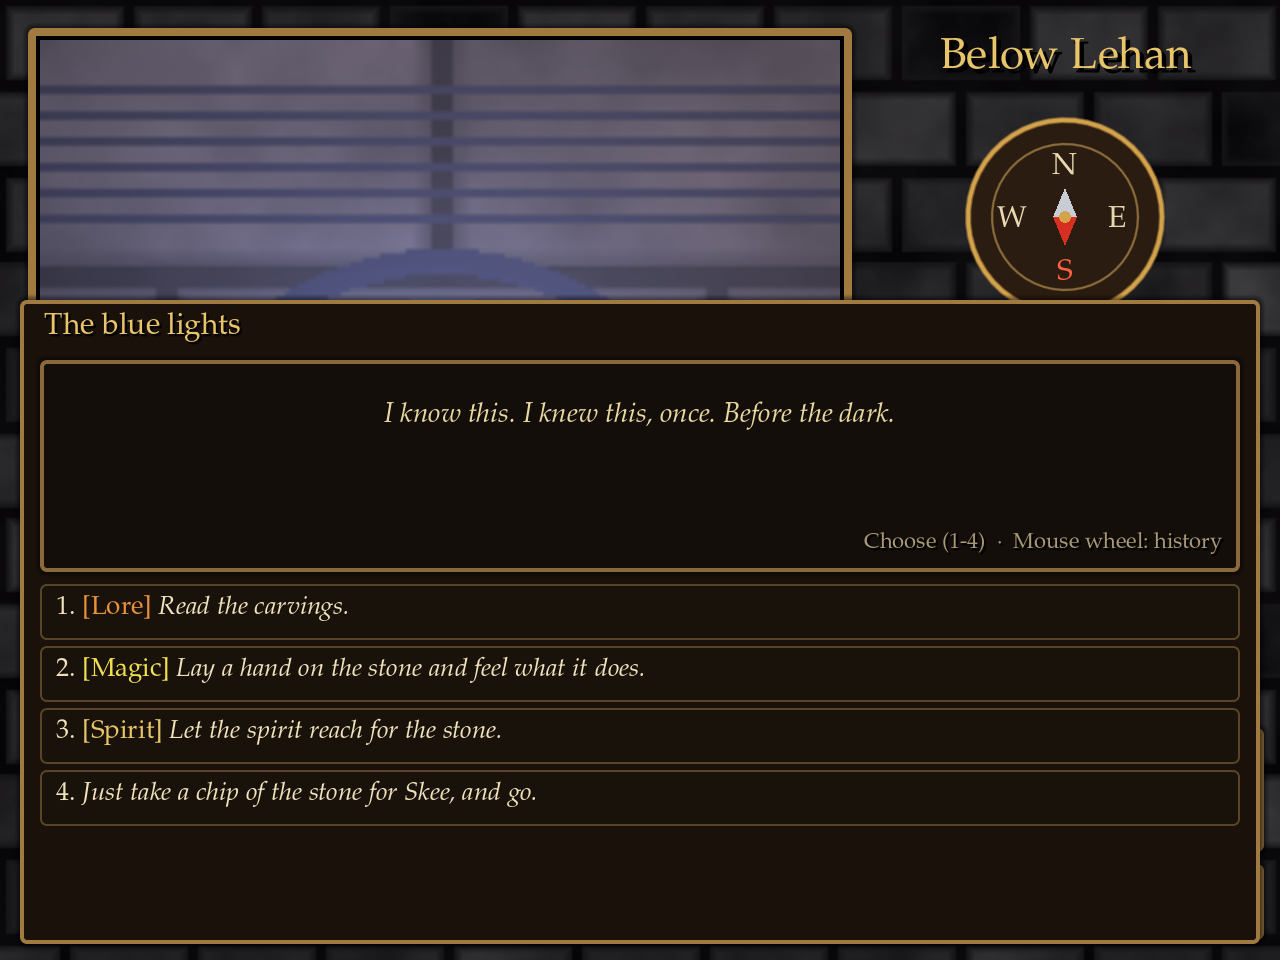
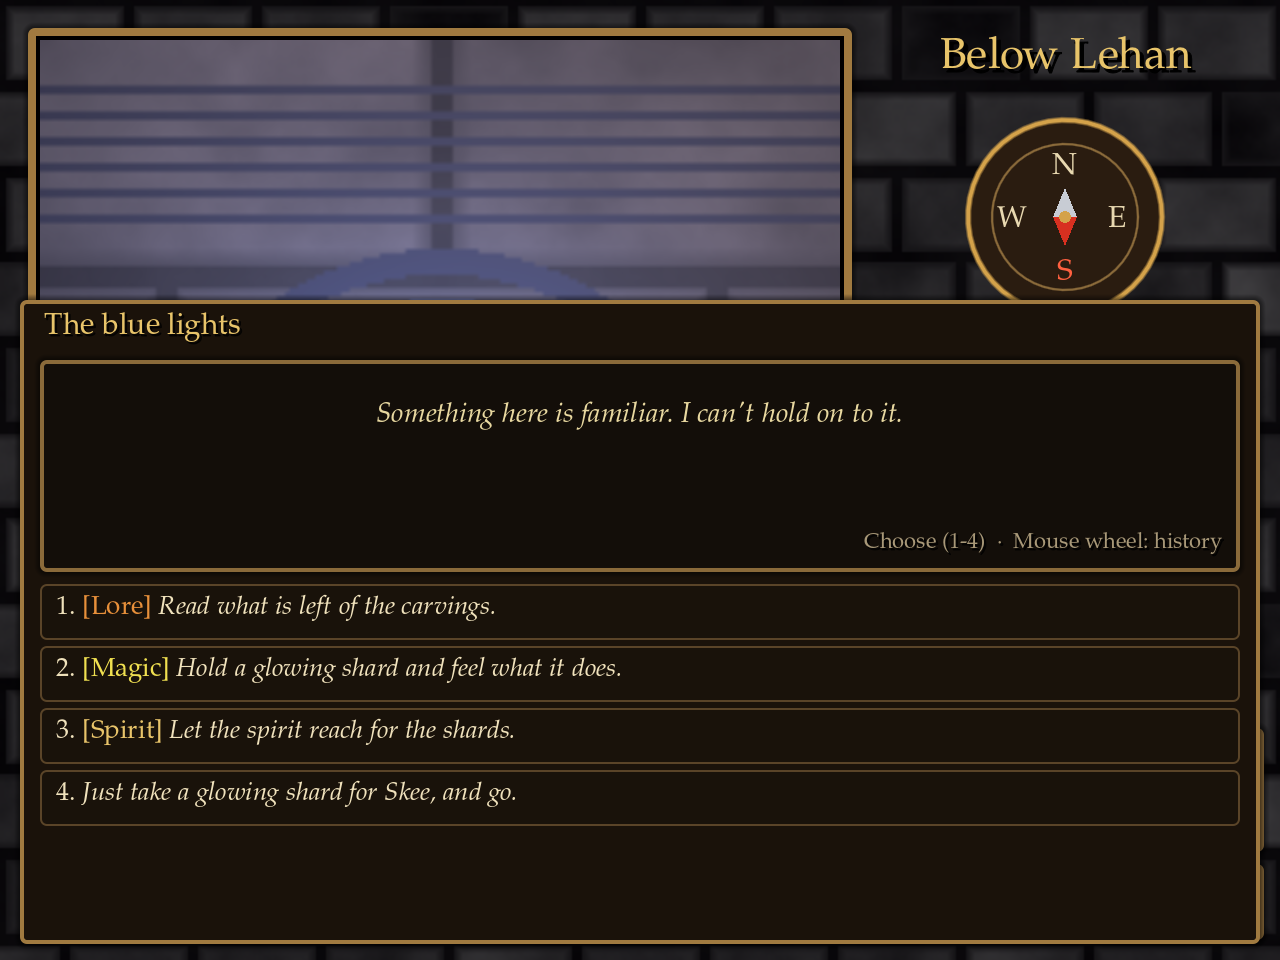
Tunnels: the crowned stone becomes the shattered remains of a figure, broken on purpose and walled in

diff --git a/Shangrila-godot/README.md b/Shangrila-godot/README.md
@@ -158,11 +158,12 @@ talk the tanner round (Talk), find the loose drain (Perception), let the spirit 
 or pay her 5 silver. Below is a small 3D maze lit by your torch (`scripts/areas/lehan_tunnels.gd`,
 screen `scripts/screens/tunnels.gd`): a rat nest blocking the way east (Stealth, Survival or
 Combat; failing drives you back, bitten), a collapse (Perception or Survival, or Toughness; failing
-costs hits), Skee's bag in a side passage, and the chamber of the lights: an old ward-stone carved
-with the crown from the shrine's stone head. Reading it (Lore) or feeling it (Magic) tells more,
-and the spirit can reach for it and remember something. Each failed try at the rats or the
+costs hits), Skee's bag in a side passage, and the chamber of the lights: behind an old bricked-up doorway,
+the shattered remains of a figure, broken on purpose, with part of what might be a crown and a few
+shards still glowing. Reading what's left of the carvings (Lore) or holding a shard (Magic) tells
+more, and the spirit can reach for the shards and almost remember something. Each failed try at the rats or the
 collapse gives +1 on the next. Walk into the ladder to climb out. Then Skee must be persuaded it
-wasn't ghosts, one argument per talk (the glowing chip, what the carvings said, his bag, the host's
+wasn't ghosts, one argument per talk (the glowing shard, what the carvings said, his bag, the host's
 calm, or simply company); if every argument fails, he comes anyway. He joins for no fee. The text
 is in `scripts/data/quest_skee.gd`.
 
@@ -186,7 +187,7 @@ taken and finished quests. Each keeps every scene of the quest as it was played:
 speech, the inner voice, the replies chosen (▸, with the check and its chance) and whether each
 check passed. Kept in the save (`scripts/data/journal.gd`, `scripts/widgets/quest_log.gd`).
 
-**Quest items.** Lisbet's letter, Tam's page from the wage book, Skee's bag and the glowing chip
+**Quest items.** Lisbet's letter, Tam's page from the wage book, Skee's bag and the glowing shard
 are real items in a pack, marked with a gold ★, as is the Crowned Head from the shrine. They
 can't be thrown away (the shop doesn't buy anything yet), can be passed around the party, and go
 to someone who stays when their carrier leaves the party (the split, or dismissing at the inn;

diff --git a/IDEAS.md b/IDEAS.md
@@ -1012,8 +1012,12 @@ streets, with a scuffle as a last resort.
 #### Skee: the lights under Lehan (built)
 As built: the way down is under the tannery, a new door on Tanners' Row (paying the tanner 5 silver
 always works). The tunnels are a small maze with the rats blocking the way east, a collapse, Skee's
-dropped bag (helps persuade him) and the lights chamber. The carvings read "Sealed below by the
-crowned one. Let it sleep." Failed tries at the rats and the collapse give +1 next time. If every
+dropped bag (helps persuade him) and the lights chamber. Behind an old bricked-up doorway lie the
+shattered remains of a figure, broken on purpose, with part of what might have been a crown. A few
+shards still glow faintly, and one is taken for Skee. What's left of the carvings reads "...kept
+below... let it sleep." The hints are kept quiet on purpose: the player may deduce that the jailers
+found the figure, destroyed it and walled it in (see "The jailers: hidden among us": remnants
+found already destroyed). Failed tries at the rats and the collapse give +1 next time. If every
 argument fails, Skee comes anyway. His abilities: Missile 2, Stealth 2, Perception 2, Survival 1.
 The original suggestion:
 Skee is a Nisk rat-catcher, Superstitious and Cautious, and is won over by persuasion. He has
